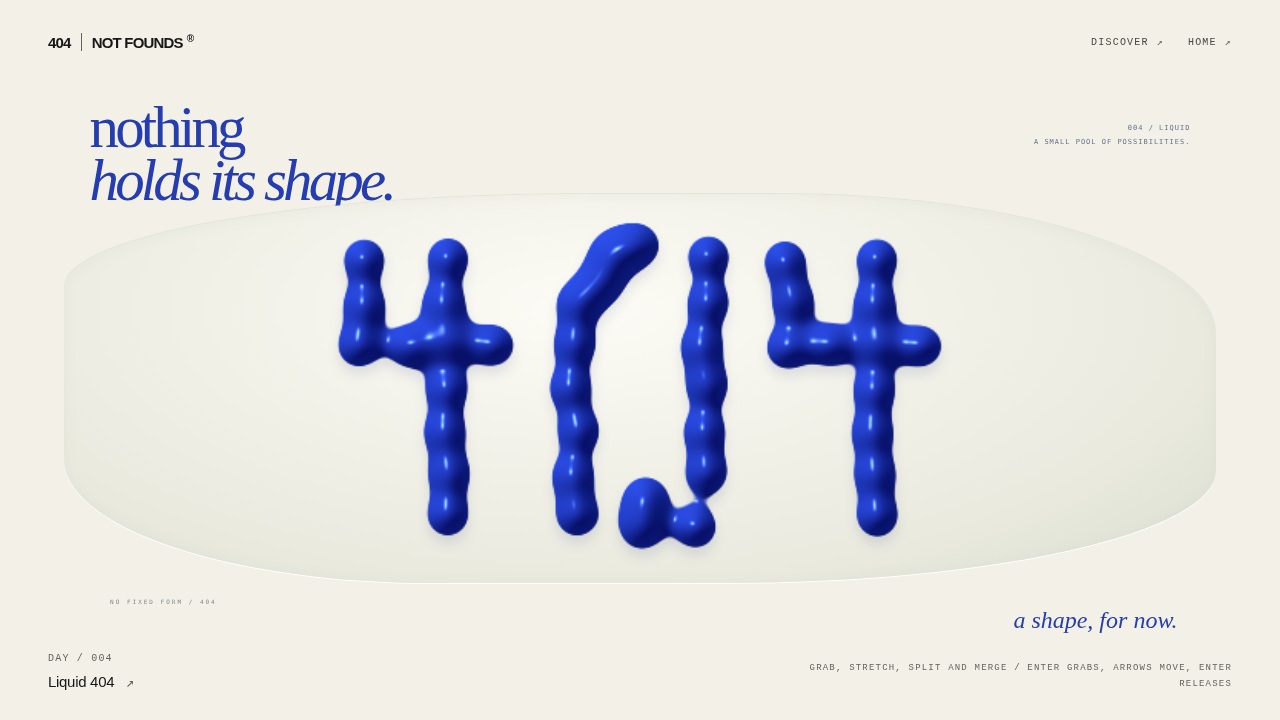
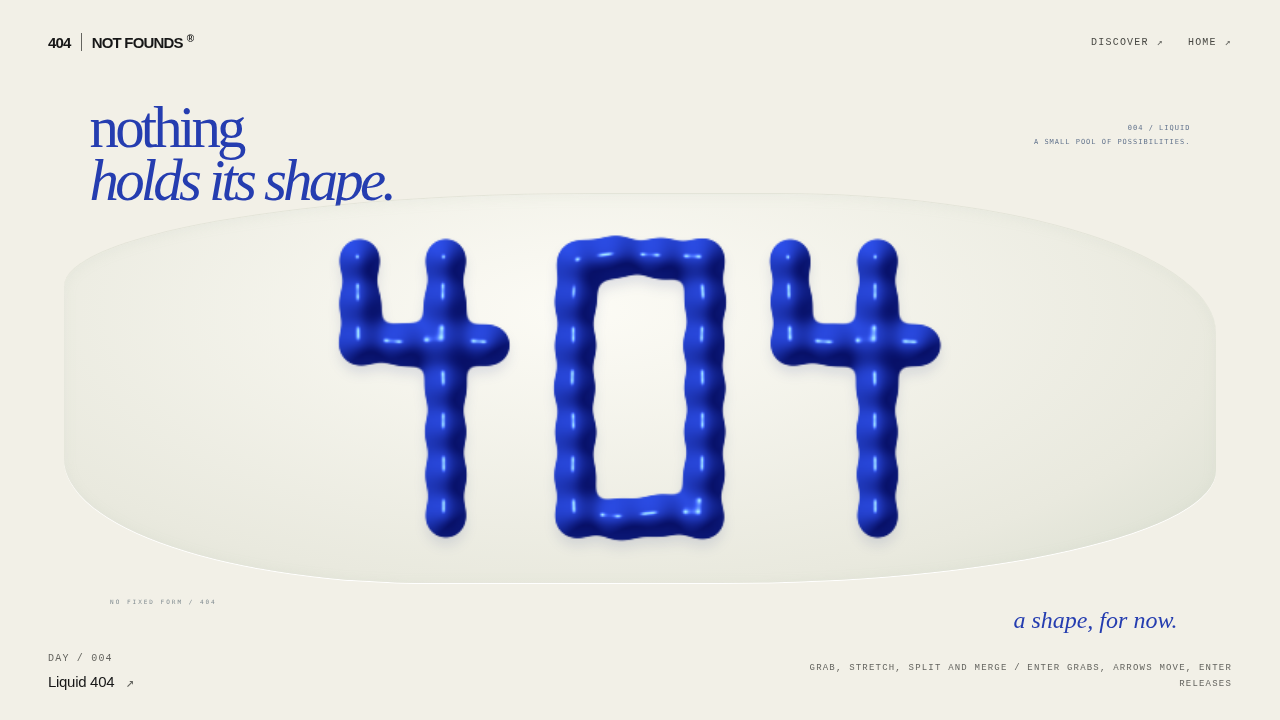
fix(404): keep liquid grips local and stabilize gesture timing

diff --git a/tests/browser/liquid404.spec.ts b/tests/browser/liquid404.spec.ts
@@ -2,6 +2,9 @@ import { test, expect } from "@playwright/test";
 test("real mouse/touch transports and splits the body; idle forms 404 which can be grabbed again", async ({
   page,
 }, info) => {
+  test.setTimeout(60000);
+  await page.clock.install();
+  await page.clock.pauseAt(new Date());
   const errors: string[] = [];
   page.on("pageerror", (e) => errors.push(e.message));
   await page.goto("404/004");
@@ -9,6 +12,7 @@ test("real mouse/touch transports and splits the body; idle forms 404 which can 
     field = page.locator("[data-renderer]");
   await expect(field).toBeVisible();
   await expect(stage).toHaveAttribute("data-liquid-state", "resting");
+  await page.clock.runFor(500);
   await page.screenshot({
     path: `test-results/${info.project.name}-liquid-pools.png`,
   });
@@ -39,8 +43,9 @@ test("real mouse/touch transports and splits the body; idle forms 404 which can 
         touchPoints: [{ x: next, y }],
       });
     else await page.mouse.move(next, y);
-    await page.waitForTimeout(25);
+    await page.clock.runFor(25);
   }
+  await page.clock.runFor(450);
   await expect
     .poll(async () => Number(await stage.getAttribute("data-first-x")))
     .toBeGreaterThan(startX + 350);
@@ -58,6 +63,7 @@ test("real mouse/touch transports and splits the body; idle forms 404 which can 
     await session.detach();
   } else await page.mouse.up();
   await expect(stage).toHaveAttribute("data-liquid-state", "resting");
+  await page.clock.runFor(14000);
   await expect(stage).toHaveAttribute("data-liquid-state", "formed", {
     timeout: 22000,
   });

diff --git a/lib/liquid404.ts b/lib/liquid404.ts
@@ -106,9 +106,18 @@ export function grabLiquid(s: Liquid, x: number, y: number): boolean {
   s.formed = false;
   s.pointer = { x, y };
   const center = s.drops[near];
-  for (const p of s.drops) {
+  // Keep the grip local even while a newly-created pool is very dense.
+  const picked = new Set(
+    s.drops
+      .map((p, i) => ({ i, d: Math.hypot(p.x - center.x, p.y - center.y) }))
+      .sort((a, b) => a.d - b.d)
+      .slice(0, 3)
+      .filter((p) => p.d < center.r * 2)
+      .map((p) => p.i),
+  );
+  for (const [i, p] of s.drops.entries()) {
     const d = Math.hypot(p.x - center.x, p.y - center.y);
-    p.grip = d < 30 ? Math.max(0.25, 1 - d / 40) : 0;
+    p.grip = picked.has(i) ? Math.max(0.3, 1 - d / (center.r * 3)) : 0;
     p.offsetX = p.x - x;
     p.offsetY = p.y - y;
   }

diff --git a/tests/liquid404.test.ts b/tests/liquid404.test.ts
@@ -66,3 +66,20 @@ test("long steps, bounds and cancellation stay finite in portrait and landscape"
     }
   }
 });
+
+test("grip stays local and a fast pull tears both fresh and settled pools", () => {
+  for (const height of [330, 1100])
+    for (const settle of [0, 30]) {
+      const s = createLiquid(height);
+      for (let i = 0; i < settle; i++) stepLiquid(s, 1 / 60);
+      const p = s.drops[0],
+        x = p.x;
+      grabLiquid(s, x, p.y);
+      assert.ok(s.drops.filter((d) => d.grip > 0).length <= 3);
+      for (let i = 0; i < 30; i++) {
+        s.pointer.x = x + 520 * Math.min(1, (i + 1) / 18);
+        stepLiquid(s, 1 / 60);
+      }
+      assert.ok(s.split > 0, `height=${height},settle=${settle}`);
+    }
+});

diff --git a/doc/day-004-liquid-404.md b/doc/day-004-liquid-404.md
@@ -13,7 +13,7 @@ WebGL非対応・コンパイル失敗・context loss時は、同じモデルを
 ## Implementation
 
 - 42個の粒子から5つの塊を配置する。近接粒子間の結合にばね、重なりに反発、速度に減衰を与える。
-- つかんだ位置に近い粒子を保持し、胴体を結合で引く。指の位置を直接全体へ代入せず、粘性と遅れを残す。
+- つかんだ位置に近い最大3粒子を保持し、胴体を結合で引く。初期の密な塊を丸ごと保持しないよう、距離に加えて個数も制限する。指の位置を直接全体へ代入せず、粘性と遅れを残す。
 - 結合が一定以上伸びると切れる。接触した粒子には新しい結合ができる。分離した滴も本体と同じ粒子で、再把持・移動・再結合できる。装飾の滴は追加しない。
 - 解放後も速度を維持して減衰する。約6秒は文字へ戻す力を加えず、操作結果を残す。その後、404の配置へ緩やかに集める。集約時は旧結合の復元力を外し、文字の目標位置と競合させない。
 - Shaderは各粒子のガウス密度を足し、閾値で連続面を描く。密度勾配から法線を推定し、青い光沢・厚みを表現。粒子数上限64、実際は42。描画幅上限750、DPR上限1.25。
@@ -32,6 +32,6 @@ WebGL非対応・コンパイル失敗・context loss時は、同じモデルを
 
 ## Validation / limitations
 
-単体テストは初期の分離、空振り、液体本体の移動・切断・再結合、解放の慣性、放置後の404形成、境界とキャンセルを対象とする。ブラウザでは実マウス／CDPタッチ、静止画・引き伸ばし・文字形成、キーボード、Canvasフォールバック、reduced-motion、JavaScriptなし、狭幅・横画面・Discover遷移を検証する。結果はPRに記録する。
+単体テストは初期の分離、空振り、液体本体の移動・切断・再結合、解放の慣性、放置後の404形成、境界とキャンセルを対象とする。ブラウザでは実マウス／CDPタッチ、静止画・引き伸ばし・文字形成、キーボード、Canvasフォールバック、reduced-motion、JavaScriptなし、狭幅・横画面・Discover遷移を検証する。描画速度に依存せず同じ入力を検証するため、主要なブラウザ操作テストではPlaywright Clockで物理時間を一定に進める。結果はPRに記録する。
 
 実機Safari／Android、実端末GPU性能、Lighthouse数値、ユーザーの触感評価は未確認。Canvas版は光沢表現を簡略化する。正確な質量・体積保存、流体同士の混色は扱わない。

diff --git a/devlog/2026-10-18-404-not-founds.md b/devlog/2026-10-18-404-not-founds.md
@@ -9,7 +9,7 @@
 - AIに任せたこと：粒子モデル、Shader、入力・描画管理、旧テスト置換、サムネイル・技術資料の更新。
 - うまくいったこと：Glassの奥行き・打撃とは異なる俯瞰・連続操作へ構図を変更。液滴も本体と同じ質量要素として運び、再結合できる。
 - 詰まったこと・修正：低速描画時に物理時刻まで遅れる問題を小刻みな時間積分で修正。キーボード保持時のEscape解放漏れを修正。モバイルで塊全体が追従しすぎる問題に対し、保持範囲と結合の強さを調整した。
-- Evidence：feature/404-004-liquid-basin。lint / 単体19件 / typecheck / basePath付きbuild成功。ブラウザ39件成功・7件はPC対象外のモバイルセンサー試験としてskip。マウス／CDPタッチ、分離・結合・404形成・キーボード再把持、Canvasフォールバック、狭幅・横画面・既存作品を確認。画像はdoc/previews/004-*.png。PR・CIは作成後に追記。
+- Evidence：feature/404-004-liquid-basin。lint / 単体20件 / typecheck / basePath付きbuild成功。ブラウザ39件成功・7件はPC対象外のモバイルセンサー試験としてskip。マウス／CDPタッチ、分離・結合・404形成・キーボード再把持、Canvasフォールバック、狭幅・横画面・既存作品を確認。画像はdoc/previews/004-*.png。PRは https://github.com/rulers/404-not-founds/pull/8 。初回CIでは高速描画時に初期の密な塊を広く保持してしまい分離試験が失敗。最大3粒子の局所保持と初期／収束後の回帰テストを追加。ブラウザの主要操作はClockで物理時間を固定し、環境速度で操作が変わらないよう修正。最終CIはPR本文に記録する。
 - 学び：液体本体の結合が切れて接触で再結合することと、装飾の滴が飛ぶことは異なる。文字への強制復元を操作直後から外すことで、遊んだ結果を残せる。
 - 次にやること：PRレビュー、実機Safari／Android・実端末GPUの確認、人間による触感評価。main未マージ・未公開。日報はMarkdown保存のみ、レビュー承認前の投稿なし。
 
